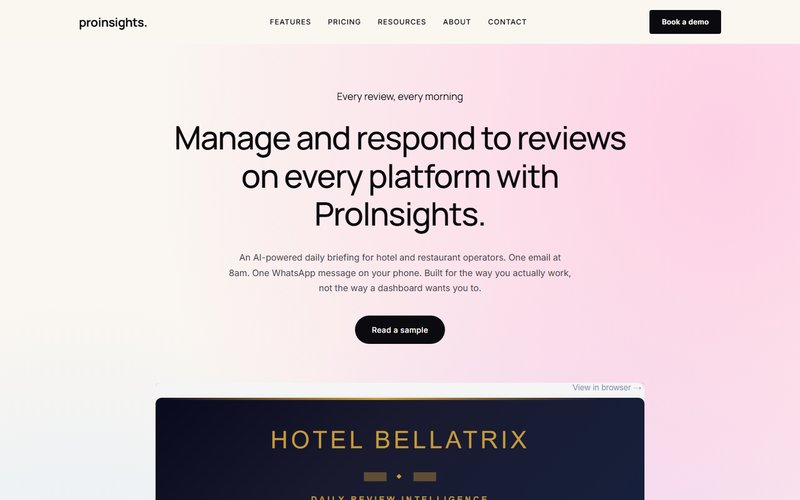
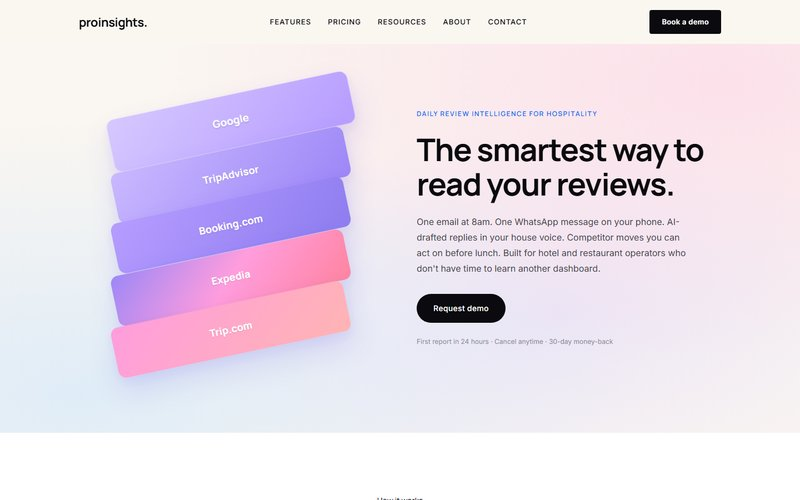
Merge Design A hero into Design B body — final candidate
User direction: take the Analytix-style 3D stacked sculpture hero
from Design A and combine it with the clics-style cream-pastel body
of Design B. Label each of the 5 stacked gradient boxes with a
review platform.

CHANGES TO DESIGN B HERO
- Replaced the full-bleed centered hero (was: pink/lavender/blue radial
  gradient with centered headline) with a split 50/50 layout.
- LEFT: 3D stacked sculpture — 5 rotated rounded rectangles cascading
  -12deg, gradients fading purple → lavender → pink → coral, each
  containing a white-text label centered on the rectangle:
    layer-1 → Google
    layer-2 → TripAdvisor
    layer-3 → Booking.com
    layer-4 → Expedia
    layer-5 → Trip.com
  Hover on a layer lifts it slightly with translateZ + brighter shadow.
- RIGHT: blue eyebrow "DAILY REVIEW INTELLIGENCE FOR HOSPITALITY" +
  Manrope 700 "The smartest way to read your reviews." + paragraph +
  dark "Request demo" pill + fineprint "First report in 24 hours ·
  Cancel anytime · 30-day money-back".
- Background: softened the radial gradients on the cream base
  (lower opacity) so the visual focus is on the sculpture, not the
  background.

DESIGN B BODY (unchanged)
- "How it works" white centred band with floating dashboard cards
- "Why ProInsights" 3-up cards on cream with gradient blob
- "Features" white band with screenshot
- 4-tier pricing on cream (Pro card inverted dark)
- "Resources" sample-report cards with gradient thumbs
- "About" founder paragraph on light blue
[…]

diff --git a/design-b.css b/design-b.css
@@ -104,53 +104,122 @@ a { color: inherit; text-decoration: none; }
   .nav-cta { display: none; }
 }
 
-/* ──────── HERO — full-bleed soft pastel gradient ──────── */
+/* ──────── HERO — split layout: 3D stacked platforms left, text right ──────── */
 .hero {
-  position: relative;
-  padding: 80px 0 0;
+  padding: 60px 0 100px;
+  background:
+    radial-gradient(ellipse at 10% 90%, rgba(191,224,255,0.45) 0%, transparent 55%),
+    radial-gradient(ellipse at 90% 10%, rgba(255,192,224,0.40) 0%, transparent 55%),
+    radial-gradient(ellipse at 70% 70%, rgba(212,200,255,0.35) 0%, transparent 50%),
+    linear-gradient(180deg, var(--cream) 0%, var(--cream) 100%);
   overflow: hidden;
 }
-.hero-bg {
-  position: absolute;
-  inset: 0;
-  background:
-    radial-gradient(ellipse at 10% 90%, rgba(191,224,255,0.7) 0%, transparent 50%),
-    radial-gradient(ellipse at 90% 10%, rgba(255,192,224,0.7) 0%, transparent 55%),
-    radial-gradient(ellipse at 70% 70%, rgba(212,200,255,0.55) 0%, transparent 50%),
-    linear-gradient(180deg, #FAF6F1 0%, #FAF6F1 100%);
-  z-index: 0;
-}
 .hero-inner {
-  position: relative;
-  z-index: 1;
-  max-width: 980px;
+  max-width: var(--max);
   margin: 0 auto;
-  padding: 0 var(--pad) 0;
-  text-align: center;
+  padding: 0 var(--pad);
+  display: grid;
+  grid-template-columns: 1fr 1fr;
+  gap: 60px;
+  align-items: center;
+  min-height: 540px;
+}
+
+/* ──── 3D stacked sculpture — each layer = a review platform ──── */
+.hero-art {
+  position: relative;
+  height: 520px;
+  perspective: 1200px;
+}
+.hero-art .layer {
+  position: absolute;
+  width: 78%;
+  left: 11%;
+  height: 92px;
+  border-radius: 14px;
+  transform-origin: center center;
+  display: flex;
+  align-items: center;
+  justify-content: center;
+  box-shadow:
+    0 26px 50px rgba(108,92,231,0.16),
+    0 8px 20px rgba(108,92,231,0.08);
+  transition: transform 0.25s ease, box-shadow 0.25s ease;
+}
+.hero-art .layer:hover {
+  transform: rotate(-12deg) translateY(-6px) translateZ(40px);
+  box-shadow:
+    0 40px 70px rgba(108,92,231,0.22),
+    0 14px 28px rgba(108,92,231,0.12);
+  z-index: 10;
+}
+.hero-art .layer span {
+  font-family: 'Manrope', sans-serif;
+  font-weight: 700;
+  font-size: 18px;
+  letter-spacing: 0.3px;
+  color: #fff;
+  text-shadow: 0 1px 2px rgba(0,0,0,0.15);
+  user-select: none;
+}
+.layer-1 {
+  top: 30px;
+  background: linear-gradient(135deg, #d6c8ff 0%, #b69cff 100%);
+  transform: rotate(-12deg) translateZ(40px);
+  height: 96px;
+}
+.layer-2 {
+  top: 120px;
+  background: linear-gradient(135deg, #c9b8ff 0%, #9d87f7 100%);
+  transform: rotate(-12deg);
+  height: 96px;
+}
+.layer-3 {
+  top: 210px;
+  background: linear-gradient(135deg, #b69cff 0%, #8e7df0 100%);
+  transform: rotate(-12deg);
+  height: 104px;
+}
+.layer-4 {
+  top: 305px;
+  background: linear-gradient(135deg, #9d87f7 0%, #ff9ddd 50%, #ff84a0 100%);
+  transform: rotate(-12deg);
+  height: 104px;
+}
+.layer-5 {
+  top: 398px;
+  background: linear-gradient(135deg, #ff9ddd 0%, #ffb4b4 100%);
+  transform: rotate(-12deg);
+  height: 96px;
+}
+
+.hero-text {
+  max-width: 560px;
 }
 .kicker {
   font-family: 'Manrope', sans-serif;
-  font-size: 18px;
-  font-weight: 400;
+  font-weight: 600;
+  font-size: 12px;
+  letter-spacing: 1.5px;
+  color: var(--blue);
+  text-transform: uppercase;
+  margin: 0 0 24px;
+}
+.hero-text h1 {
+  font-family: 'Manrope', sans-serif;
+  font-weight: 700;
+  font-size: clamp(36px, 5vw, 56px);
+  line-height: 1.1;
+  letter-spacing: -1.5px;
   color: var(--ink);
   margin: 0 0 24px;
 }
-.hero-inner h1 {
-  font-family: 'Manrope', sans-serif;
-  font-weight: 500;
-  font-size: clamp(36px, 5.2vw, 58px);
-  line-height: 1.18;
-  letter-spacing: -1.5px;
-  color: var(--ink);
-  margin: 0 auto 32px;
-  max-width: 880px;
-}
 .hero-stand {
   font-size: 16px;
-  line-height: 1.7;
+  line-height: 1.75;
   color: var(--ink-soft);
-  margin: 0 auto 36px;
-  max-width: 620px;
+  margin: 0 0 32px;
+  max-width: 500px;
 }
 .btn-dark {
   display: inline-block;
@@ -168,24 +237,23 @@ a { color: inherit; text-decoration: none; }
   background: var(--blue);
   transform: translateY(-1px);
 }
-.hero-screenshot {
-  margin: 70px auto 0;
-  max-width: 880px;
-  position: relative;
-}
-.hero-screenshot img {
-  width: 100%;
-  height: auto;
-  display: block;
-  border-radius: 12px 12px 0 0;
-  box-shadow:
-    0 -10px 60px rgba(15,15,30,0.10);
-  /* Clip so it appears to rise out of the page */
-  clip-path: inset(0 0 30% 0);
+.hero-meta {
+  font-size: 12px;
+  color: var(--muted);
+  margin: 24px 0 0;
 }
 
-@media (max-width: 720px) {
-  .hero { padding: 50px 0 0; }
+@media (max-width: 900px) {
+  .hero { padding: 40px 0 70px; }
+  .hero-inner { grid-template-columns: 1fr; gap: 50px; }
+  .hero-art { height: 380px; order: 2; }
+  .hero-art .layer { height: 64px; }
+  .layer-1 { top: 30px; height: 68px; }
+  .layer-2 { top: 95px; height: 68px; }
+  .layer-3 { top: 160px; height: 72px; }
+  .layer-4 { top: 230px; height: 72px; }
+  .layer-5 { top: 300px; height: 68px; }
+  .hero-art .layer span { font-size: 14px; }
 }
 
 /* ──────── Bands ──────── */

diff --git a/design-b.html b/design-b.html
@@ -30,16 +30,22 @@
   </div>
 </header>
 
-<!-- ─── HERO — full-bleed soft pastel gradient ─── -->
+<!-- ─── HERO — split layout: 3D stacked platforms left, text right ─── -->
 <section class="hero" id="top">
-  <div class="hero-bg"></div>
   <div class="hero-inner">
-    <p class="kicker">Every review, every morning</p>
-    <h1>Manage and respond to reviews on every platform with ProInsights.</h1>
-    <p class="hero-stand">An AI-powered daily briefing for hotel and restaurant operators. One email at 8am. One WhatsApp message on your phone. Built for the way you actually work, not the way a dashboard wants you to.</p>
-    <a href="#sample" class="btn-dark">Read a sample</a>
-    <div class="hero-screenshot">
-      <img src="hero-screenshot.png" alt="ProInsights daily report preview">
+    <div class="hero-art" aria-hidden="false">
+      <div class="layer layer-1"><span>Google</span></div>
+      <div class="layer layer-2"><span>TripAdvisor</span></div>
+      <div class="layer layer-3"><span>Booking.com</span></div>
+      <div class="layer layer-4"><span>Expedia</span></div>
+      <div class="layer layer-5"><span>Trip.com</span></div>
+    </div>
+    <div class="hero-text">
+      <p class="kicker">Daily review intelligence for hospitality</p>
+      <h1>The smartest way to read your reviews.</h1>
+      <p class="hero-stand">One email at 8am. One WhatsApp message on your phone. AI-drafted replies in your house voice. Competitor moves you can act on before lunch. Built for hotel and restaurant operators who don't have time to learn another dashboard.</p>
+      <a href="#contact" class="btn-dark">Request demo</a>
+      <p class="hero-meta">First report in 24 hours · Cancel anytime · 30-day money-back</p>
     </div>
   </div>
 </section>